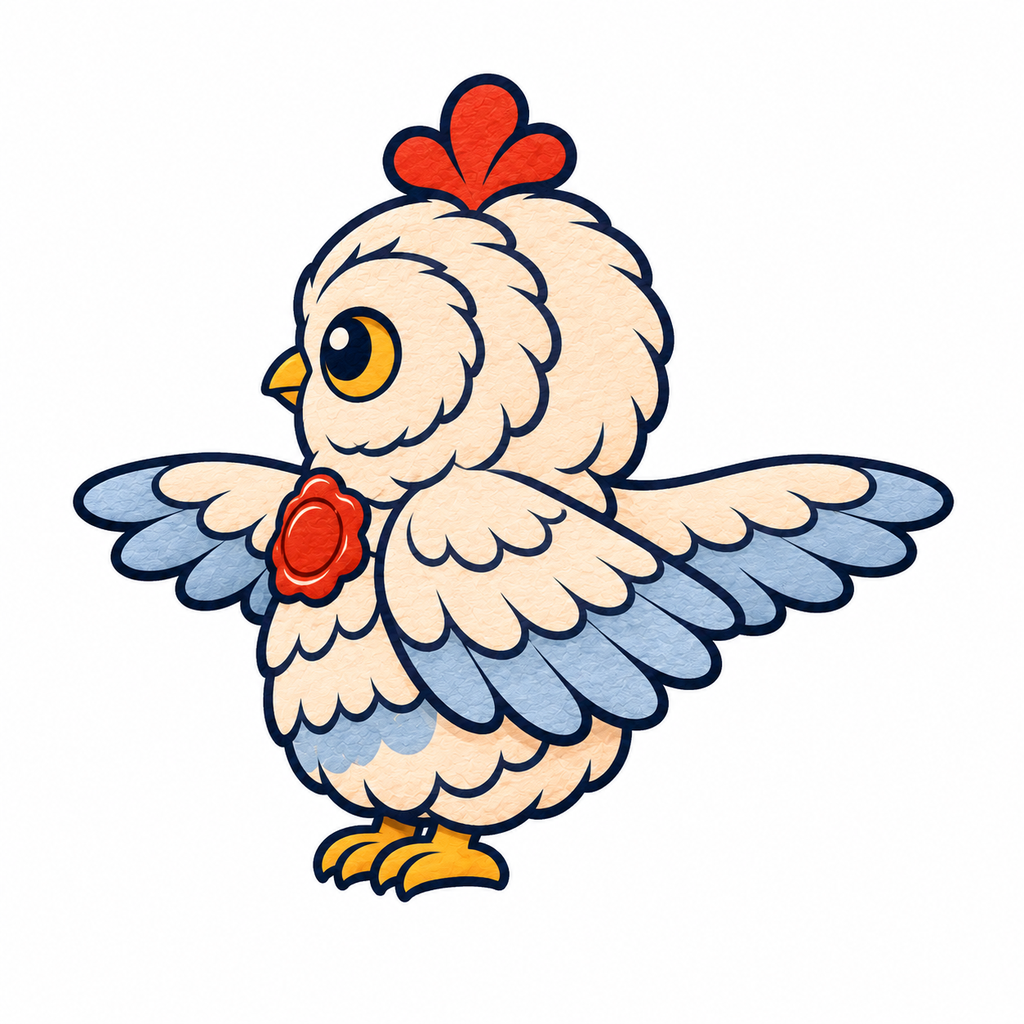
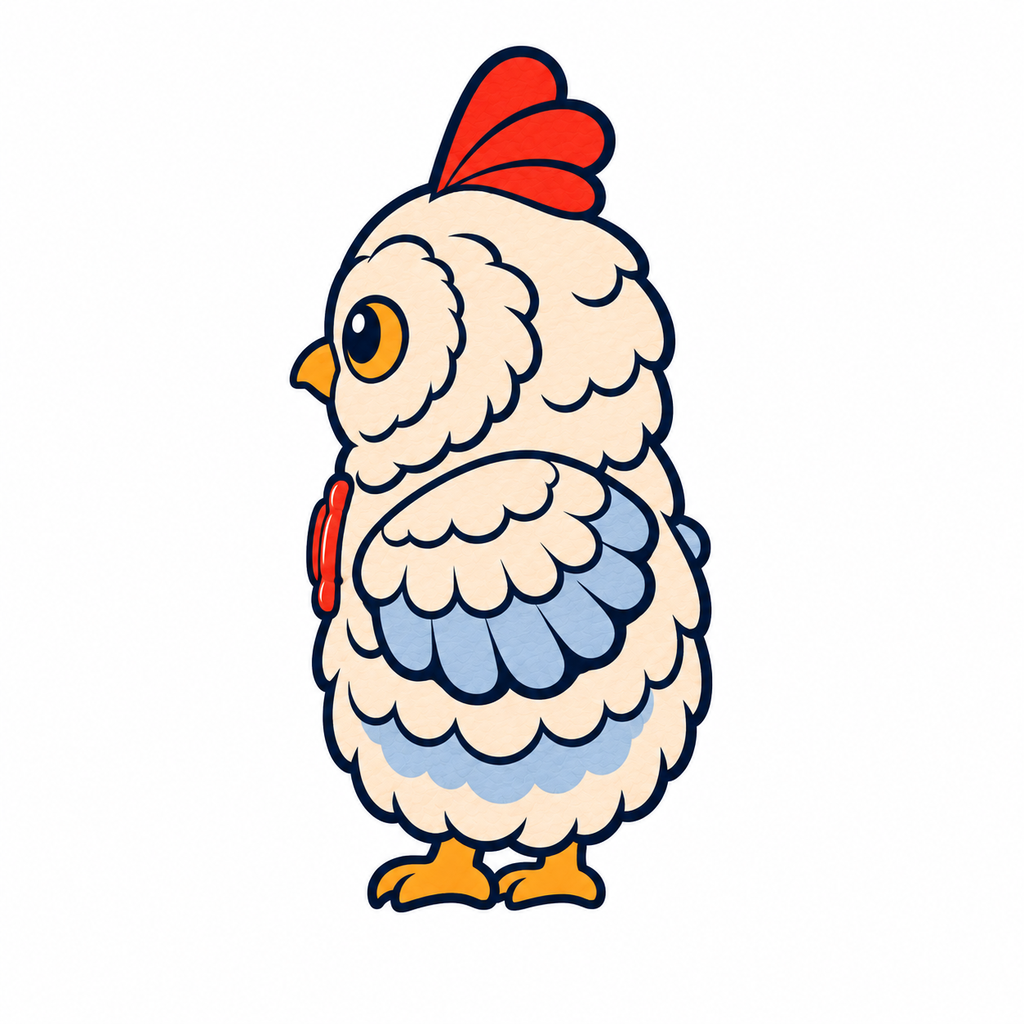
Tripo：フウロウの真横（候補から左c・右bを採用）
Claude-Session: https://claude.ai/code/session_01NxsVqWd6E8wULWa2eDL34e

Changed region(s): [[0.0625, 0.0312, 0.9375, 0.9062]]

diff --git a/3d/tripo/kit.html b/3d/tripo/kit.html
@@ -67,25 +67,21 @@ ol.steps li::before{content:counter(s);width:30px;height:30px;border-radius:50%;
   </section>
 
   <section class="tag" aria-labelledby="t-fuurou">
-    <header><h2 id="t-fuurou">フウロウ</h2><span class="chip">正面と後ろの2枚で作る</span><span class="chip rig">骨入れ：鳥（Avian）</span></header>
-    <div class="grid">
+    <header><h2 id="t-fuurou">フウロウ</h2><span class="chip">4方向で作る</span><span class="chip rig">骨入れ：鳥（Avian）</span></header>
+    <div class="grid four">
       <figure><img src="img/fuurou-wing-front.png" alt="フウロウ 羽を広げた正面"><figcaption><b>正面</b><span>Front</span></figcaption></figure>
+      <figure><img src="img/fuurou-wing-left.png" alt="フウロウ 左向き"><figcaption><b>左</b><span>Left</span></figcaption></figure>
       <figure><img src="img/fuurou-wing-back.png" alt="フウロウ 羽を広げた後ろ"><figcaption><b>後ろ</b><span>Back</span></figcaption></figure>
+      <figure><img src="img/fuurou-wing-right.png" alt="フウロウ 右向き"><figcaption><b>右</b><span>Right</span></figcaption></figure>
     </div>
-    <p class="note">ライティングを除去はオフ、ポリゴン数は2万、トポロジーは四角形。横向きの2枚は斜め前から見た絵になっていて、羽の向きが正面と少し合わないので、まずは使わずに作ってください。</p>
-    <details><summary>横向きの絵（参考）</summary>
-      <div class="grid" style="margin-top:10px">
-        <figure><img src="img/fuurou-wing-left.png" alt="フウロウ 左向き（参考）"><figcaption><b>左</b><span>参考</span></figcaption></figure>
-        <figure><img src="img/fuurou-wing-right.png" alt="フウロウ 右向き（参考）"><figcaption><b>右</b><span>参考</span></figcaption></figure>
-      </div>
-    </details>
+    <p class="note">多方向（Multi-view）で4枚を向きの枠に入れます。左はくちばしが左を向いた絵、右はくちばしが右を向いた絵です。ライティングを除去はオフ、ポリゴン数は2万、トポロジーは四角形。</p>
   </section>
 
   <section class="tag" aria-labelledby="t-steps">
     <header><h2 id="t-steps">Tripo での作り方</h2></header>
     <ol class="steps">
       <li><div><h3>Tripo を開いてログイン</h3><p>studio.tripo3d.ai（スマホでもブラウザーで開けます）。</p></div></li>
-      <li><div><h3>「画像から3D」を選ぶ</h3><p>ツムギと局長は <b>1枚（Single image）</b> で、Tポーズの正面を入れます。フウロウは <b>多方向（Multi-view）</b> で、正面と後ろの枠に入れます。</p></div></li>
+      <li><div><h3>「画像から3D」を選ぶ</h3><p>ツムギと局長は <b>1枚（Single image）</b> で、Tポーズの正面を入れます。フウロウは <b>多方向（Multi-view）</b> で、正面・左・後ろ・右の枠に入れます。</p></div></li>
       <li><div><h3>設定をして作る</h3>
         <dl class="settings">
           <dt>テクスチャ</dt><dd>あり（絵の色を写す）</dd>
